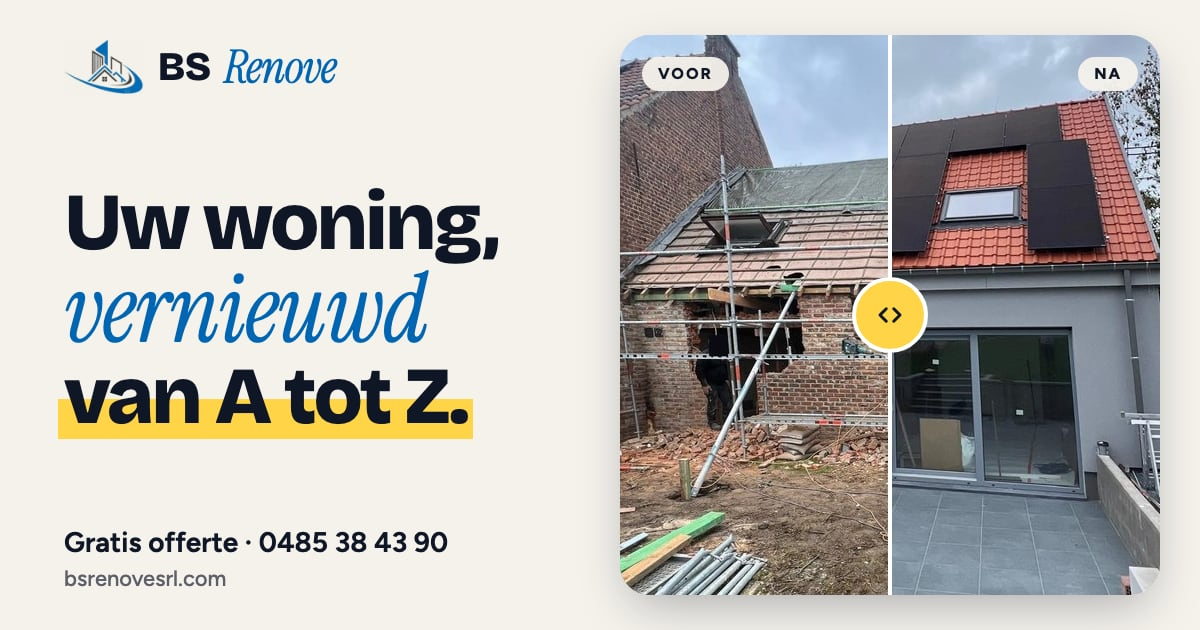
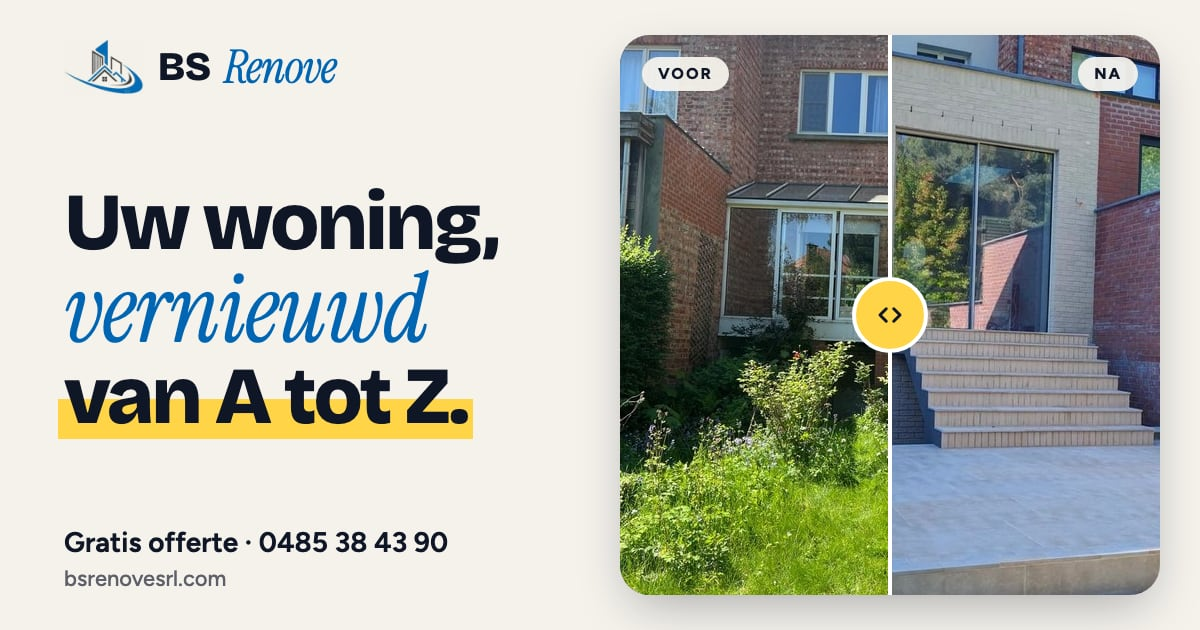
Accueil : maison côté jardin en vitrine, notes avant/après des travaux ; Welle à la place de Denderleeuw ; image de partage refaite

diff --git a/src/i18n/fr.ts b/src/i18n/fr.ts
@@ -47,7 +47,7 @@ export const fr = {
     rejoindre: 'Rejoindre l’équipe',
     droits: 'Tous droits réservés',
     projet: 'Un projet en tête ?',
-    zone: 'de Denderleeuw à toute la Belgique',
+    zone: 'de Welle à toute la Belgique',
     entreprise: 'L’entreprise',
     credit: 'Site conçu par',
     creditQuestion: 'Un site comme celui-ci ?',
@@ -114,9 +114,9 @@ export const fr = {
       titreDebut: 'Même maison.',
       titreSerif: 'Autre vie.',
       texte:
-        'Faites glisser la poignée : la maison en plein chantier laisse place au résultat.',
-      noteAvant: 'en plein chantier…',
-      noteApres: '… et presque terminée !',
+        'Faites glisser la poignée : la maison d'avant les travaux laisse place au résultat.',
+      noteAvant: 'avant les travaux…',
+      noteApres: '… et après !',
       voirTout: 'Tous les avant/après',
       avant: 'Avant',
       apres: 'Après',
@@ -179,7 +179,7 @@ export const fr = {
       items: [
         {
           q: 'Intervenez-vous près de chez moi ?',
-          r: 'Nous sommes basés à Denderleeuw et nous intervenons dans toute la Belgique.',
+          r: 'Nous sommes basés à Welle et nous intervenons dans toute la Belgique.',
         },
         {
           q: "Le devis est-il gratuit ?",
@@ -309,7 +309,7 @@ export const fr = {
     surtitre: 'À propos',
     titre: 'Rénover, c’est notre métier',
     intro:
-      "BS Renove SRL est une entreprise générale de rénovation basée à Denderleeuw, active dans toute la Belgique. Que ce soit un chantier complet ou un seul métier, nous coordonnons tout nous-mêmes, du premier jour au dernier",
+      "BS Renove SRL est une entreprise générale de rénovation basée à Welle, active dans toute la Belgique. Que ce soit un chantier complet ou un seul métier, nous coordonnons tout nous-mêmes, du premier jour au dernier",
     capacitesTitre: 'Ce que nous savons faire',
     capacitesIntro:
       "Tous les corps de métier d'une rénovation, en interne ou avec nos indépendants de confiance",
@@ -441,9 +441,9 @@ export const fr = {
 
   pages: {
     accueil: {
-      titre: 'BS Renove · Entreprise de rénovation à Denderleeuw, Belgique',
+      titre: 'BS Renove · Entreprise de rénovation à Welle, Belgique',
       description:
-        'Entreprise générale de rénovation à Denderleeuw : salles de bain, cuisines, carrelage, toiture, maçonnerie et extensions, partout en Belgique. Devis gratuit.',
+        'Entreprise générale de rénovation à Welle : salles de bain, cuisines, carrelage, toiture, maçonnerie et extensions, partout en Belgique. Devis gratuit.',
     },
     services: {
       titre: 'Travaux de rénovation : salle de bain, cuisine, toiture · BS Renove',
@@ -458,17 +458,17 @@ export const fr = {
     contact: {
       titre: 'Devis gratuit pour vos travaux de rénovation · BS Renove',
       description:
-        'Décrivez vos travaux de rénovation et recevez un devis gratuit : formulaire en deux étapes, téléphone ou WhatsApp. BS Renove, Denderleeuw, toute la Belgique.',
+        'Décrivez vos travaux de rénovation et recevez un devis gratuit : formulaire en deux étapes, téléphone ou WhatsApp. BS Renove, Welle, toute la Belgique.',
     },
     apropos: {
-      titre: 'À propos · BS Renove, entreprise de rénovation à Denderleeuw',
+      titre: 'À propos · BS Renove, entreprise de rénovation à Welle',
       description:
-        "BS Renove SRL, entreprise générale de rénovation à Denderleeuw, dirigée par Sergiu Bivol : 12 ans d'expérience, plus de 100 chantiers, dans toute la Belgique.",
+        "BS Renove SRL, entreprise générale de rénovation à Welle, dirigée par Sergiu Bivol : 12 ans d'expérience, plus de 100 chantiers, dans toute la Belgique.",
     },
     rejoindre: {
       titre: 'Travailler chez BS Renove · Rejoindre l’équipe',
       description:
-        'Carreleur, plombier, électricien, couvreur, maçon, peintre… Envoyez votre candidature à BS Renove, entreprise de rénovation à Denderleeuw.',
+        'Carreleur, plombier, électricien, couvreur, maçon, peintre… Envoyez votre candidature à BS Renove, entreprise de rénovation à Welle.',
     },
     mentionsLegales: {
       titre: 'Mentions légales · BS Renove',

diff --git a/src/i18n/nl.ts b/src/i18n/nl.ts
@@ -51,7 +51,7 @@ export const nl: Traductions = {
     rejoindre: 'Word lid van ons team',
     droits: 'Alle rechten voorbehouden',
     projet: 'Een project in gedachten?',
-    zone: 'van Denderleeuw tot heel België',
+    zone: 'van Welle tot heel België',
     entreprise: 'De onderneming',
     credit: 'Website ontworpen door',
     creditQuestion: 'Een website zoals deze?',
@@ -117,9 +117,9 @@ export const nl: Traductions = {
       titreDebut: 'Dezelfde woning.',
       titreSerif: 'Een nieuw leven.',
       texte:
-        'Versleep de schuifknop: de woning midden in de werken maakt plaats voor het resultaat.',
-      noteAvant: 'midden in de werken…',
-      noteApres: '… en bijna klaar!',
+        'Versleep de schuifknop: de woning van vóór de werken maakt plaats voor het resultaat.',
+      noteAvant: 'vóór de werken…',
+      noteApres: '… en erna!',
       voirTout: 'Alle voor/na-foto’s',
       avant: 'Voor',
       apres: 'Na',
@@ -182,7 +182,7 @@ export const nl: Traductions = {
       items: [
         {
           q: 'Werkt u ook in mijn buurt?',
-          r: 'Wij zijn gevestigd in Denderleeuw en werken in heel België.',
+          r: 'Wij zijn gevestigd in Welle en werken in heel België.',
         },
         {
           q: "Is de offerte gratis?",
@@ -311,7 +311,7 @@ export const nl: Traductions = {
     surtitre: 'Over ons',
     titre: 'Renoveren is ons vak',
     intro:
-      'BS Renove SRL is een algemene renovatieonderneming met zetel in Denderleeuw, actief in heel België. Of het nu om een volledige werf of één vakgebied gaat, wij coördineren alles zelf, van de eerste tot de laatste dag',
+      'BS Renove SRL is een algemene renovatieonderneming met zetel in Welle, actief in heel België. Of het nu om een volledige werf of één vakgebied gaat, wij coördineren alles zelf, van de eerste tot de laatste dag',
     capacitesTitre: 'Wat wij kunnen doen',
     capacitesIntro:
       'Alle vakgebieden van een renovatie, intern of met onze vertrouwde zelfstandigen',
@@ -443,9 +443,9 @@ export const nl: Traductions = {
 
   pages: {
     accueil: {
-      titre: 'BS Renove · Renovatiebedrijf in Denderleeuw, België',
+      titre: 'BS Renove · Renovatiebedrijf in Welle, België',
       description:
-        'Algemene renovatieonderneming uit Denderleeuw: badkamers, keukens, tegelwerk, dakwerken, metselwerk en uitbreidingen, in heel België. Gratis offerte.',
+        'Algemene renovatieonderneming uit Welle: badkamers, keukens, tegelwerk, dakwerken, metselwerk en uitbreidingen, in heel België. Gratis offerte.',
     },
     services: {
       titre: 'Renovatiewerken: badkamer, keuken, dakwerken · BS Renove',
@@ -460,17 +460,17 @@ export const nl: Traductions = {
     contact: {
       titre: 'Gratis offerte voor uw renovatiewerken · BS Renove',
       description:
-        'Beschrijf uw renovatiewerken en ontvang een gratis offerte: formulier in twee stappen, telefoon of WhatsApp. BS Renove, Denderleeuw, heel België.',
+        'Beschrijf uw renovatiewerken en ontvang een gratis offerte: formulier in twee stappen, telefoon of WhatsApp. BS Renove, Welle, heel België.',
     },
     apropos: {
-      titre: 'Over ons · BS Renove, renovatiebedrijf in Denderleeuw',
+      titre: 'Over ons · BS Renove, renovatiebedrijf in Welle',
       description:
-        'BS Renove, algemene renovatieonderneming in Denderleeuw, geleid door Sergiu Bivol: 12 jaar ervaring, meer dan 100 werven, in heel België.',
+        'BS Renove, algemene renovatieonderneming in Welle, geleid door Sergiu Bivol: 12 jaar ervaring, meer dan 100 werven, in heel België.',
     },
     rejoindre: {
       titre: 'Werken bij BS Renove · Word lid van ons team',
       description:
-        'Tegelzetter, loodgieter, elektricien, dakdekker, metselaar, schilder… Stuur uw sollicitatie naar BS Renove, renovatiebedrijf in Denderleeuw.',
+        'Tegelzetter, loodgieter, elektricien, dakdekker, metselaar, schilder… Stuur uw sollicitatie naar BS Renove, renovatiebedrijf in Welle.',
     },
     mentionsLegales: {
       titre: 'Juridische informatie · BS Renove',

diff --git a/src/data/entreprise.ts b/src/data/entreprise.ts
@@ -13,12 +13,12 @@ export const entreprise = {
   adresse: {
     rue: 'Elf Dagwand 67',
     codePostal: '9473',
-    ville: 'Denderleeuw',
+    ville: 'Welle',
     pays: 'BE',
   },
 
   tva: 'BE 1002.240.127',
-  /** Tribunal de l'entreprise compétent pour le siège (Denderleeuw) : obligatoire (CSA art. 2:20). */
+  /** Tribunal de l'entreprise compétent pour le siège (Welle, commune de Denderleeuw) : obligatoire (CSA art. 2:20). */
   rpm: { fr: 'RPM Gand, division Termonde', nl: 'RPR Gent, afdeling Dendermonde' },
   /** Date de création dans la BCE (14 novembre 2023), au format des données structurées. */
   creation: '2023-11-14',

diff --git a/src/data/projets.ts b/src/data/projets.ts
@@ -56,11 +56,11 @@ export async function toutesLesPaires(): Promise<Paire[]> {
 const trouver = (paires: Paire[], id: string) => paires.find((paire) => paire.id === id);
 
 /** La comparaison en grand sur l'accueil. */
-const ID_VITRINE = 'renovation-complete-maison/apres-1';
+const ID_VITRINE = 'renovation-maison-jardin/apres-1';
 
 /** Les 3 avant/après sous la vitrine de l'accueil (4 en tout). */
 const IDS_ACCUEIL = [
-  'renovation-maison-jardin/apres-1',
+  'renovation-complete-maison/apres-1',
   'cuisine-ilot/apres-1',
   'renovation-interieure-ostende/apres-1',
 ];

diff --git a/docs/brief.md b/docs/brief.md
@@ -69,7 +69,7 @@ Deux photos superposées, l'« après » se dévoile selon la poignée (ronde, j
 
 ## 8. SEO et légal
 
-- `title` et description propres à chaque page et langue (mots recherchés : rénovation, salle de bain, cuisine, toiture, Denderleeuw, Belgique, devis gratuit), Open Graph, image de partage avec la vitrine de l'accueil.
+- `title` et description propres à chaque page et langue (mots recherchés : rénovation, salle de bain, cuisine, toiture, Welle, Belgique, devis gratuit), Open Graph, image de partage avec la vitrine de l'accueil.
 - Une page par métier, en FR et en NL.
 - JSON-LD `GeneralContractor` sur l'accueil (avec la liste des métiers), `Service` et fil d'Ariane sur chaque page métier ; `hreflang` fr-BE, nl-BE, x-default ; `sitemap.xml` et `robots.txt`.
 - Mentions légales et Vie privée : textes définitifs (hébergeur Netlify, qui reçoit aussi les formulaires ; RPM).

diff --git a/CLAUDE.md b/CLAUDE.md
@@ -2,7 +2,7 @@
 
 ## Le projet
 
-Site vitrine de BS Renove SRL, entreprise générale de rénovation belge (siège à Denderleeuw, intervient dans toute la Belgique). Site en français et en néerlandais.
+Site vitrine de BS Renove SRL, entreprise générale de rénovation belge (siège à Welle (Denderleeuw), intervient dans toute la Belgique). Site en français et en néerlandais.
 
 Objectif : qu'un propriétaire qui arrive sur le site ait confiance et prenne contact, par formulaire de devis, téléphone ou WhatsApp.
 

diff --git a/docs/guide-technique.md b/docs/guide-technique.md
@@ -92,8 +92,8 @@ netlify.toml              Construction, cache, en-têtes de sécurité, 404 née
 3. Ajouter la paire dans `src/content/projets/nom-du-chantier.yaml` :
    ```yaml
    commune:                 # facultatif : sans commune, le site affiche « Belgique »
-     fr: Denderleeuw
-     nl: Denderleeuw
+     fr: Welle
+     nl: Welle
    ordre: 20
    avantApres:
      - avant: ../../assets/projets/nom-du-chantier/avant-1.jpg

diff --git a/README.md b/README.md
@@ -4,7 +4,7 @@
 
 # BS Renove
 
-**Le site de BS Renove SRL, entreprise générale de rénovation à Denderleeuw, active dans toute la Belgique.**
+**Le site de BS Renove SRL, entreprise générale de rénovation à Welle, active dans toute la Belgique.**
 
 [bsrenovesrl.com](https://bsrenovesrl.com) · Français & Nederlands
 
